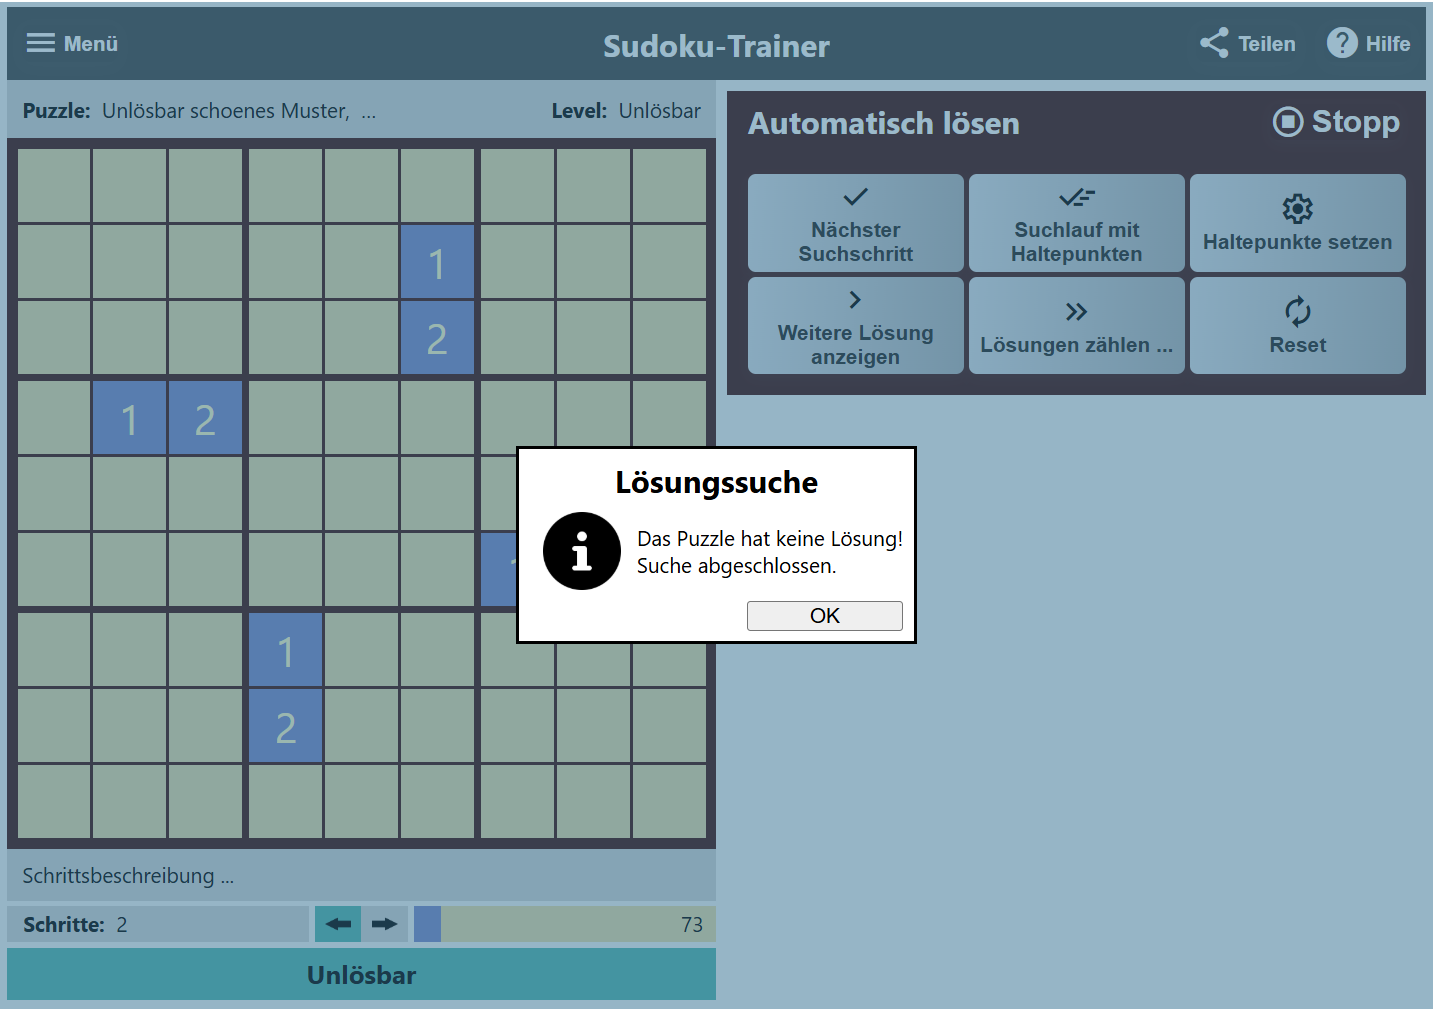
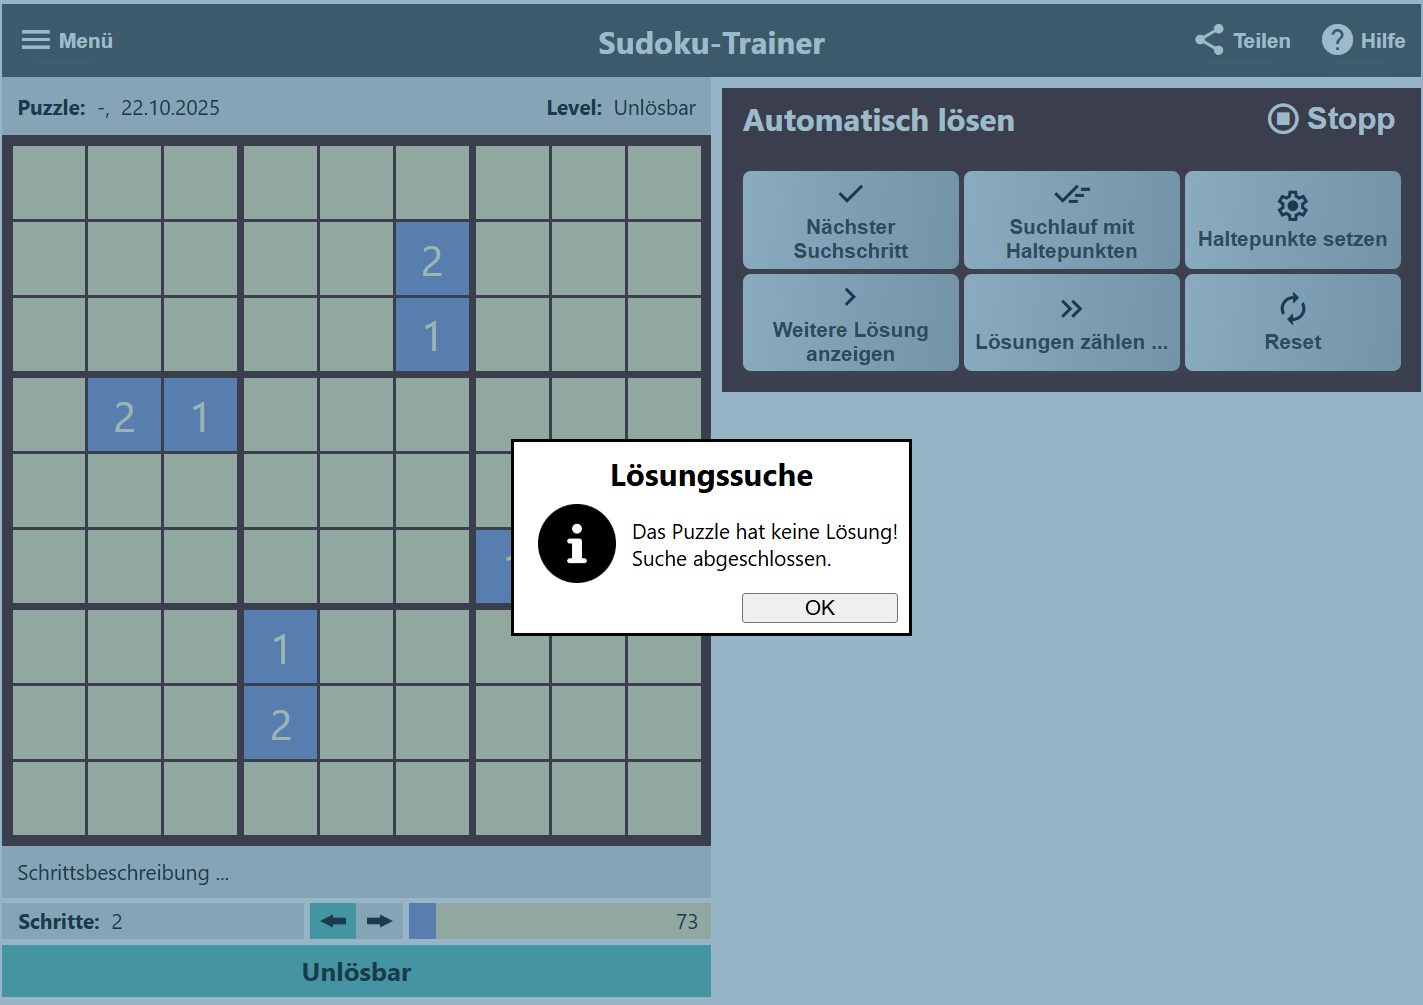
v1073

diff --git a/sw.js b/sw.js
@@ -10,7 +10,7 @@ var APP_PREFIX = 'sudo_';
 // you need to change this version (version_01, version_02…). 
 // If you don't change the version, the service worker will give your
 // users the old files!
-var VERSION = 'version_1072';
+var VERSION = 'version_1073';
 
 // The files to make available for offline use. make sure to add 
 // others to this list

diff --git a/JS/sudokuCommon.js b/JS/sudokuCommon.js
@@ -1,5 +1,5 @@
 let sudoApp;
-let VERSION = 1072;
+let VERSION = 1073;
 
 // ==========================================
 // Basic classes

diff --git a/help.md b/help.md
@@ -568,9 +568,9 @@ Wir unterscheiden drei Kategorien von Sudoku-Puzzles
 
 ### Unlösbare Puzzles
 
-Ein Puzzle ist unlösbar, wenn es keine Belegung Belegung aller offenen Zellen des Puzzles gibt, sodass alle Sudoku-Regeln erfüllt sind. Wie kann man unlösbare Puzzles erkennen? Die Antwort lautet: an den Widersprüchen.
+Ein Puzzle ist **unlösbar**, wenn es keine Belegung aller offenen Zellen des Puzzles gibt, sodass alle Sudoku-Regeln erfüllt sind. Ein (offenes) Puzzle ist **widerspruchsvoll**, wenn seine aktuelle Belegung den Sudoku-Regeln widerspricht. Jedes widerspruchvolle Puzzle ist unlösbar. Aber nicht jedes unlösbare Puzzle ist widerspruchsvoll. 
 
-Ein (offenes) Puzzle ist widersprüchlich, wenn seine aktuelle Belegung den Sudoku-Regeln widerspricht. Ein widersprüchliches Puzzle ist unlösbar. Ein Setzen weiterer Zellen ist nicht mehr sinnvoll, da dadurch der schon bestehende Widerspruch nicht mehr aufgehoben werden kann. Oft gibt es mehrere Widersprüchlichkeiten gleichzeitig. Sie brauchen nicht alle ermittelt zu werden, da sie an der Unlösbarkeit nichts mehr ändern.
+Ist ein Puzzle widerspruchsvoll, dann ist das Setzen weiterer Zellen ist nicht mehr sinnvoll, da dadurch der schon bestehende Widerspruch nicht mehr aufgehoben werden kann. Oft gibt es mehrere Widersprüchlichkeiten gleichzeitig. Sie brauchen nicht alle ermittelt zu werden, da sie an der Unlösbarkeit nichts mehr ändern.
 
 <figure >
    <img src="./imagesHelp/unloesbarOffensichtlich.png" alt="UnloesbarOffensichtlich" style="max-width:100%">
@@ -580,7 +580,7 @@ Ein (offenes) Puzzle ist widersprüchlich, wenn seine aktuelle Belegung den Sudo
 Im ersten Beispiel wird ein Widerspruch sichtbar unmittelbar nach Wechsel in den Modus "Automatisch lösen". Die siebte Spalte enthält zweimal die Drei, ein Widerspruch zur Sudoku-Regel, dass eine Zahl nur einmal in der Spalte vorkommen darf.
 
 Ein weiteres Beispiel.
-Puzzle: 000000000000001000000002000012000000000000000000000120000100000000200000000000000
+Puzzle: 000000000000002000000001000021000000000000000000000120000100000000200000000000000
 
 <figure >
    <img src="./imagesHelp/unloesbarSchoen.png" alt="Unloesbar schoen" style="max-width:100%">
@@ -593,9 +593,10 @@ Puzzle: 000000000000001000000002000012000000000000000000000120000100000000200000
     <figcaption style="font-size: 16px; font-style: italic;">Beispiel 2: Schritt_2 Widerspruch in Block 5 im Schritt 1</figcaption>
 </figure>
 
-Im Schritt 1 wird die notwendige 1 gesetzt. Danach ergibt sich der Widerspruch im Block 5: Im Block 5 kann keine 2 mehr gesetzt werden. D.h. der Block 5 wird ohne die Ziffer 2 bleiben. Ein Widerspruch zur Sudoku-Regel, dass in jedem Block jede Ziffer genau einmal vorkommen muss. Im Schritt 2 wird die gesetzte 1 wieder zurückgenommen. Es gibt keine weitere Option mehr. Die Suche ist abgeschlossen. Das Puzzle hat keine Lösung.
+Im Schritt 1 wird die notwendige 1 gesetzt. Danach ergibt sich der Widerspruch im Block 5: Im Block 5 kann keine 2 mehr gesetzt werden. D.h. der Block 5 wird ohne die Ziffer 2 bleiben. Ein Widerspruch zur Sudoku-Regel, dass in jedem Block jede Ziffer genau einmal vorkommen muss. Es gibt keine weitere Option mehr. Die Suche ist abgeschlossen. Das Puzzle hat keine Lösung.
 
-Die beiden Beispiele zeigen Unlösbarkeiten, die sich unmittelbar aus Widersprüchen zu Sudoku-Regeln ergeben. Es gibt aber auch nicht-elementare Unlösbarkeiten. Sie werden erst erst nach vielen Suchschritten sichtbar.
+Die beiden Beispiel-Puzzles zeigen Widersprüche zu den Sudoku-Regeln. Sie sind deshalb unlösbar. Es gibt aber auch unlösbare Puzzles, die (noch) nicht widerspruchsvoll sind. Sie erweisen sich erst nach vielen Suchschritten als widerspruchsvoll.
+
 Puzzle = 050600307710300056360050029509006000007204005436895700003560040001000000605000900
 
 <figure >
@@ -603,7 +604,7 @@ Puzzle = 05060030771030005636005002950900600000720400543689570000356004000100000
     <figcaption style="font-size: 16px; font-style: italic;">Beispiel 3: Widerspruch sichtbar nach 21 Suchschritten; </figcaption>
 </figure>
 
-Nach 21 Suchschritten hat das Puzzle eine Belegung, die in Block 8 zweimaal die 1 enthalten soll. Ein Widerspruch zur Sudoku-Regel, dass jede Zahl nur genau einmal im Block vorkommen darf.
+Nach 21 Suchschritten hat das Puzzle eine Belegung, die in Block 8 zweimal die 1 enthalten soll. Ein Widerspruch zur Sudoku-Regel, dass jede Zahl nur genau einmal im Block vorkommen darf.
 
 <figure >
    <img src="./imagesHelp/keineLoesung.png" alt="verborgen unloesbar" style="max-width:100%">
@@ -623,12 +624,18 @@ Es können mehrere dieser Bedingungen gleichzeitig vorliegen. Der vorliegende So
 
 **Widerspruchsvolle Zellen**
 
-Widerspruchsvolle Zellen hatten wir oben schon kennengelernt. Es sind dies Zellen ohne zulässige Kandidaten und Zellen, die mit einer direkt unzulässigen Nummer, also einer Nummer, die es bereits an anderer Stelle in der Zeile, Spalte oder Block der Zelle einmal gibt.
-
 ![No selectable candidates](./imagesHelp/nochoice.png){:width="50px"; height="50px"}
 ![No candidates at all](./imagesHelp/nochoice2.png){:width="50px"; height="50px"}
 ![NumberConflict](./imagesHelp/conflct.png){:width="50px"; height="50px"}
 ![NumberConflictGiven](./imagesHelp/conflictBlau.png){:width="50px"; height="50px"}
+
+Widerspruchsvolle Zellen hatten wir oben schon kennengelernt. Es sind dies 
+1. Zellen ohne zulässige Kandidaten und 
+2. Zellen, die mit einer direkt unzulässigen Nummer, also einer Nummer, die es bereits an anderer Stelle in der Zeile, Spalte oder Block der Zelle einmal gibt.
+
+Zellen ohne zulässige Kandidaten widersprechen der Sudoku-Grundregel, dass jede Zeile, jede Spalte und jeder der neun 3x3-Blöcke die Zahlen von 1 bis 9 jeweils genau einmal enthalten muss. Dies ist nicht möglich, wenn Zellen leer bleiben.
+
+Wenn eine Zelle eine direkt unzulässige Nummer enthält, dann enthält ihre Zeile oder Spalte oder Block die Nummer ein zweites mal. Ein Widerspruch zu den Sudoku-Grundregeln.
 
 **Widerspruchsvolle Gruppen**
 
@@ -644,7 +651,7 @@ Wir betrachten hier die abstrakte Gruppe. Eine konkrete Gruppe ist immer entwede
        <figcaption style="font-size: 16px; font-style: italic; text-align:center">Widerspruch - Zwei gleiche Singles</figcaption>
    </figure>
 
-   Ein Single taucht gleichzeitig in verschiedenen Zellen der Gruppe auf. Fordert also dieselbe Nummer mehrmals in der Gruppe zu setzen. Ein Widerspruch zur bereits mehrfach erwähnten Sudoku-Regel.
+   Ein Single, hier die 1, taucht gleichzeitig in verschiedenen Zellen der Gruppe auf. Fordert also dieselbe Nummer mehrmals in der Gruppe zu setzen. Ein Widerspruch zur bereits mehrfach erwähnten Sudoku-Regel.
 
 2. **Widerspruch - Fehlende Nummer:**
 
